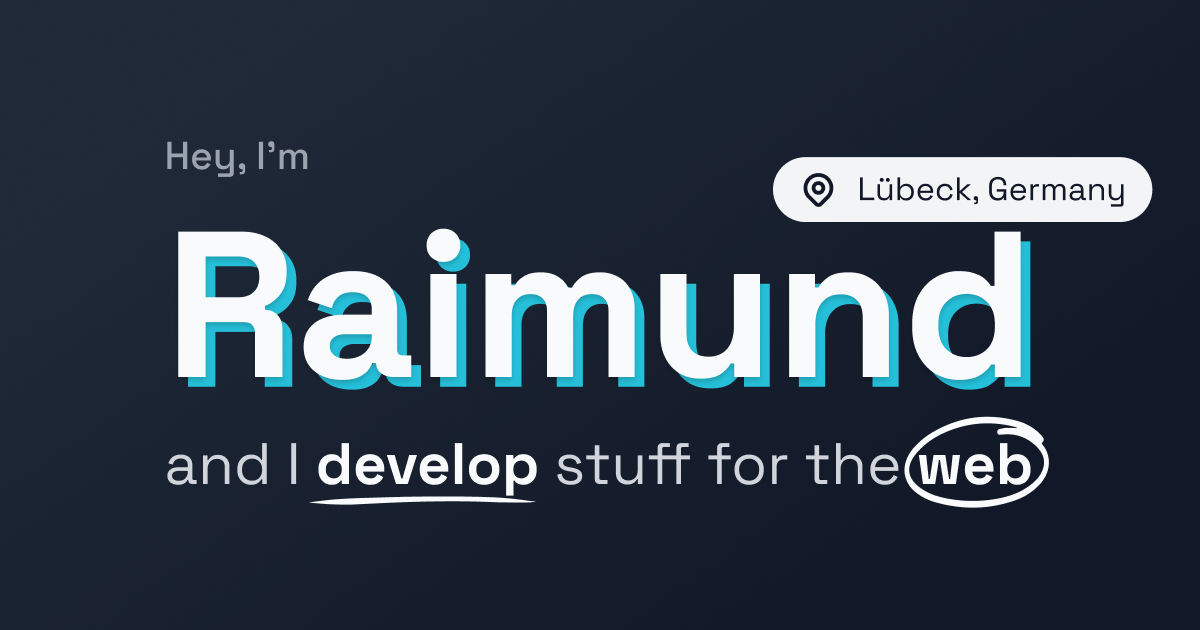
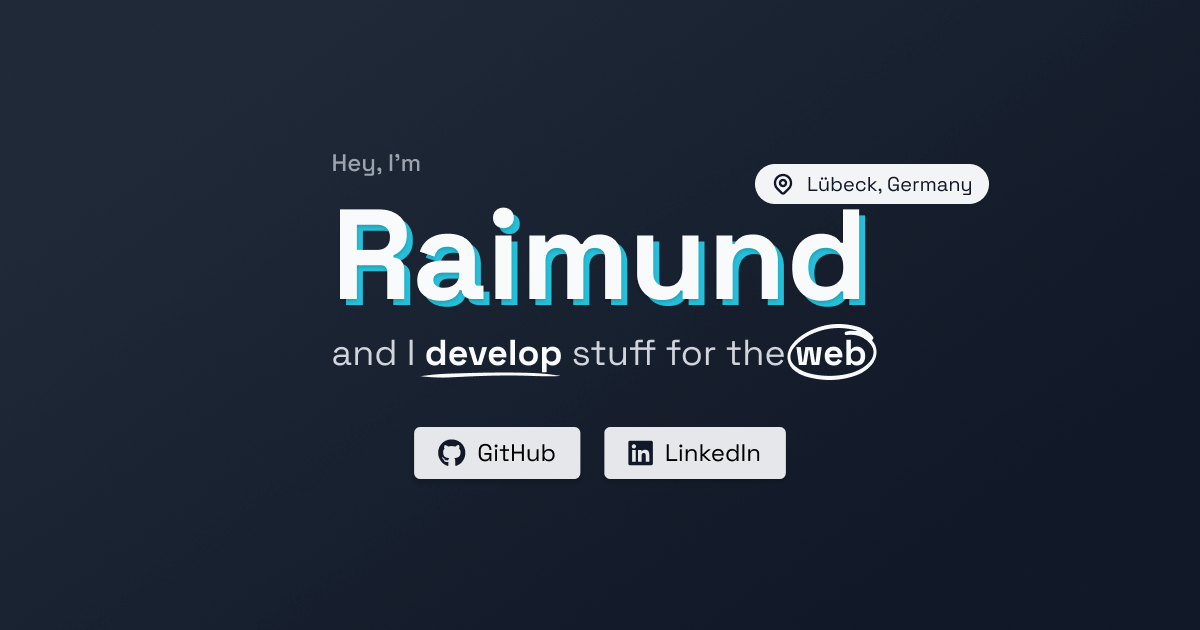
Optimize size and update bg gradient

Changed region(s): [[0.1233, 0.2413, 0.9867, 0.6333], [0.1233, 0.6635, 0.8942, 0.8143], [0.1233, 0.2111, 0.37, 0.3016]]

diff --git a/src/style.css b/src/style.css
@@ -35,8 +35,8 @@ body {
 
 body {
 	font-family: "Space Grotesk", sans-serif;
-	background: url(./assets/noise.svg),
-		linear-gradient(126.6deg, var(--gray-700) 17.05%, var(--gray-900) 81.22%);
+	background: url('data-url:./assets/noise.svg'),
+		linear-gradient(120deg, #21424d, #060b1c);
 	display: grid;
 	place-content: center;
 	gap: clamp(2.5rem, 8vw, 3.5rem);
@@ -123,11 +123,11 @@ header > p {
 }
 
 .icon--github::before {
-	content: url(./assets/fa-brands_github.svg);
+	content: url('data-url:./assets/fa-brands_github.svg');
 }
 
 .icon--linkedin::before {
-	content: url(./assets/fa-brands_linkedin.svg);
+	content: url('data-url:./assets/fa-brands_linkedin.svg');
 }
 
 .deco {
@@ -135,12 +135,12 @@ header > p {
 }
 
 .deco::after {
-    pointer-events: none;
+	pointer-events: none;
 }
 
 .deco--underline::after {
 	content: "";
-	background: url(./assets/details/underline.svg);
+	background: url('data-url:./assets/details/underline.svg');
 	background-repeat: no-repeat;
 	background-size: contain;
 	height: 12px;
@@ -152,7 +152,7 @@ header > p {
 
 .deco--circle::after {
 	content: "";
-	background: url(./assets/details/circle.svg);
+	background: url('data-url:./assets/details/circle.svg');
 	background-repeat: no-repeat;
 	background-size: contain;
 	position: absolute;
